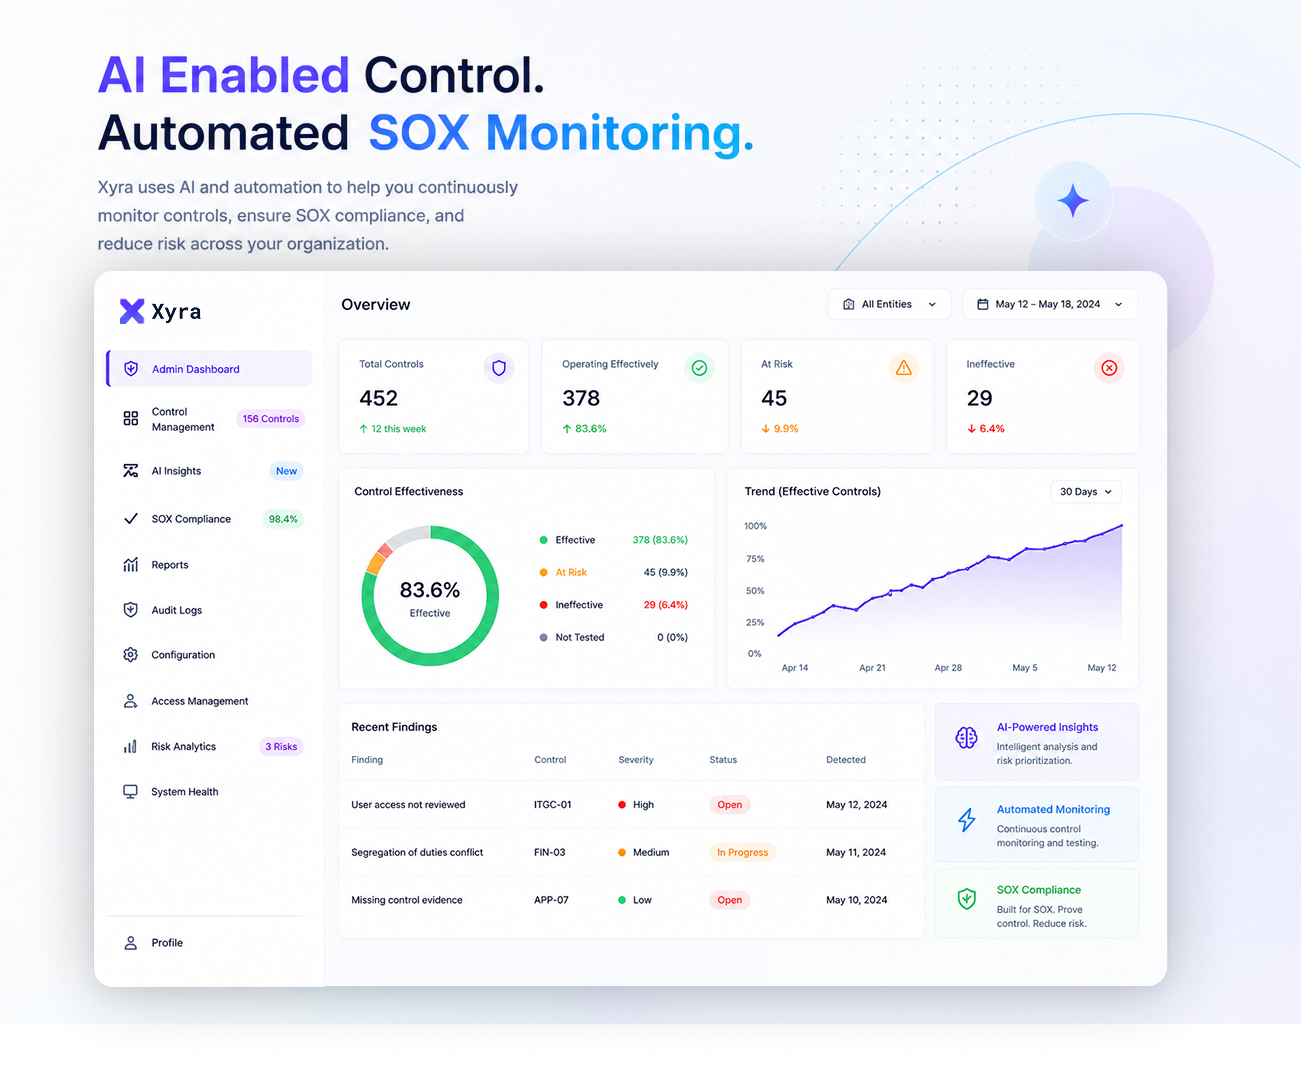
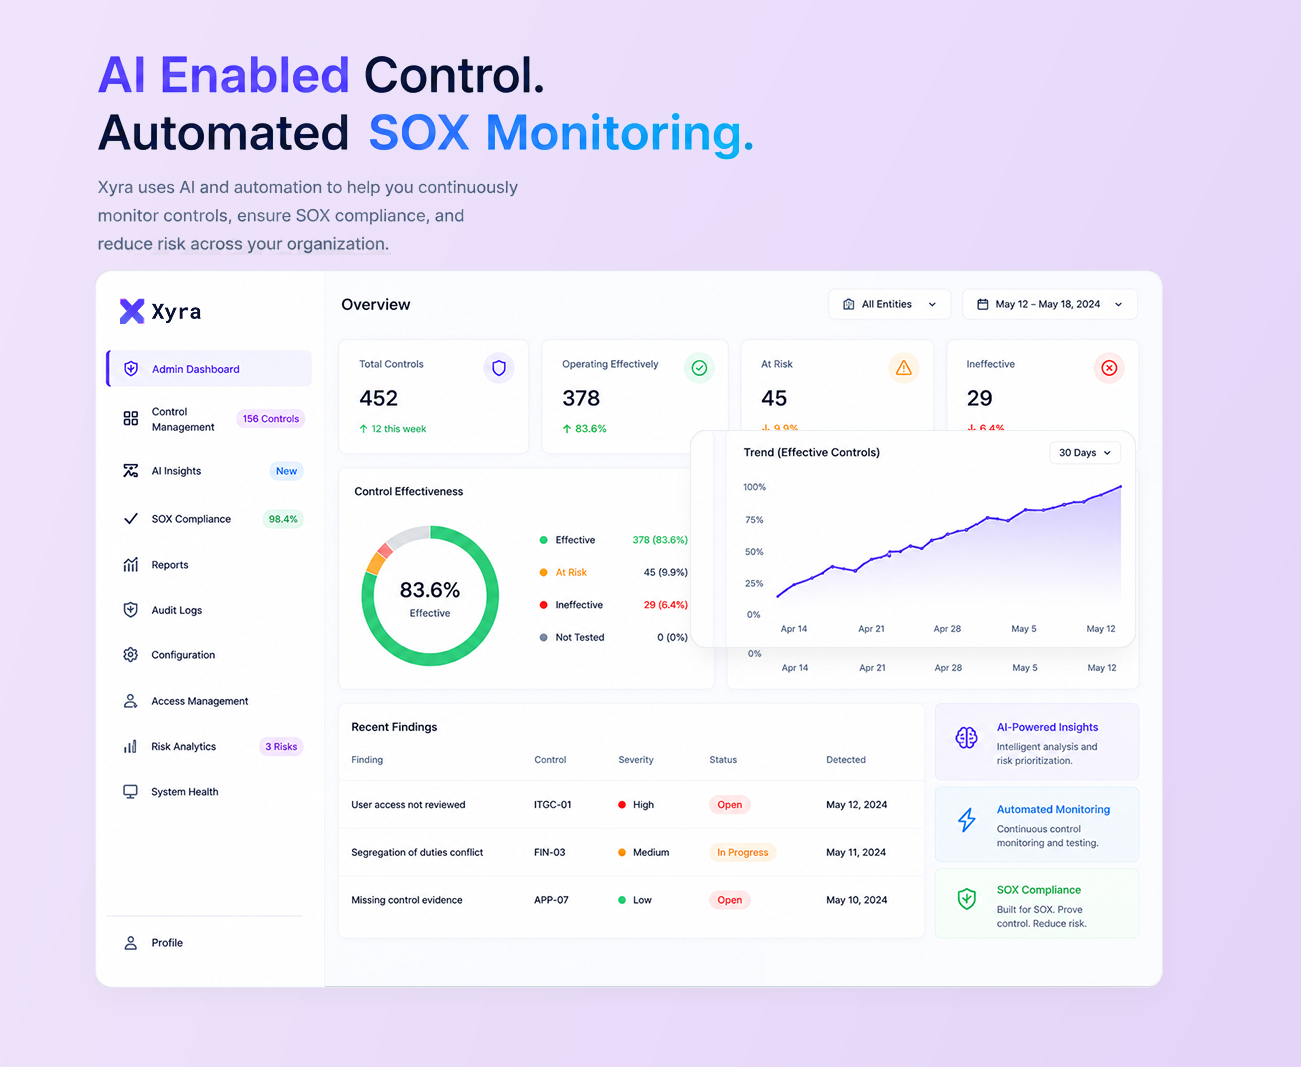
feat: Update login page visuals with new gradient backgrounds, improved indicator styles, and updated image references

diff --git a/webapp/css/style.css b/webapp/css/style.css
@@ -1164,7 +1164,8 @@ textarea.sapMTextAreaInner {
   flex: 0 0 55% !important;
   width: 55% !important;
   height: 100% !important;
-  background-color: #ffffff !important;
+  background: linear-gradient(135deg, #f0e5fc 0%, #ebe0fa 50%, #e3d2f7 100%) !important;
+  background-color: #ede2fc !important;
   display: flex !important;
   flex-direction: column !important;
   justify-content: center !important;
@@ -1240,31 +1241,30 @@ textarea.sapMTextAreaInner {
   transition: transform 0.4s ease !important;
 }
 
-/* Bottom Center Animated Slide Indicator Bar - Exact slim pill size matching screenshot */
+/* Top-Right Circular Slide Indicator Dots - Exact match to media_1788534263185.png */
 .xyraHeroIndicators {
   position: absolute !important;
-  bottom: 1.25rem !important;
-  left: 50% !important;
-  transform: translateX(-50%) !important;
+  top: 2rem !important;
+  right: 2.5rem !important;
   display: flex !important;
   flex-direction: row !important;
   justify-content: center !important;
   align-items: center !important;
-  gap: 8px !important;
-  z-index: 20 !important;
+  gap: 7px !important;
+  z-index: 25 !important;
   cursor: pointer !important;
-  padding: 4px 8px !important;
+  padding: 4px 6px !important;
 }
 
 .xyraHeroBar {
   display: inline-block !important;
-  width: 8px !important;
-  height: 4px !important;
-  min-width: 8px !important;
-  border-radius: 9999px !important;
-  background-color: #cbd5e1 !important;
+  width: 9px !important;
+  height: 9px !important;
+  min-width: 9px !important;
+  border-radius: 50% !important;
+  background-color: #dcc8fc !important;
   cursor: pointer !important;
-  transition: all 0.35s cubic-bezier(0.4, 0, 0.2, 1) !important;
+  transition: all 0.3s cubic-bezier(0.4, 0, 0.2, 1) !important;
   border: none !important;
   outline: none !important;
   box-shadow: none !important;
@@ -1273,14 +1273,16 @@ textarea.sapMTextAreaInner {
 }
 
 .xyraHeroBar:hover {
-  background-color: #94a3b8 !important;
+  background-color: #bfa3f8 !important;
+  transform: scale(1.15) !important;
 }
 
 .xyraHeroBarActive {
-  width: 28px !important;
-  min-width: 28px !important;
-  background-color: #533bff !important;
-  box-shadow: 0 1px 4px rgba(83, 59, 255, 0.35) !important;
+  width: 9px !important;
+  min-width: 9px !important;
+  background-color: #391a9b !important;
+  box-shadow: 0 0 8px rgba(57, 26, 155, 0.45) !important;
+  transform: scale(1.15) !important;
 }
 
 .xyraLoginHero {

diff --git a/webapp/index.html b/webapp/index.html
@@ -10,7 +10,7 @@
             height: 100%;
         }
     </style>
-    <link rel="stylesheet" type="text/css" href="css/style.css?v=20260904_24">
+    <link rel="stylesheet" type="text/css" href="css/style.css?v=20260904_27">
     <script
         id="sap-ui-bootstrap"
         src="https://ui5.sap.com/1.150.0/resources/sap-ui-core.js"
